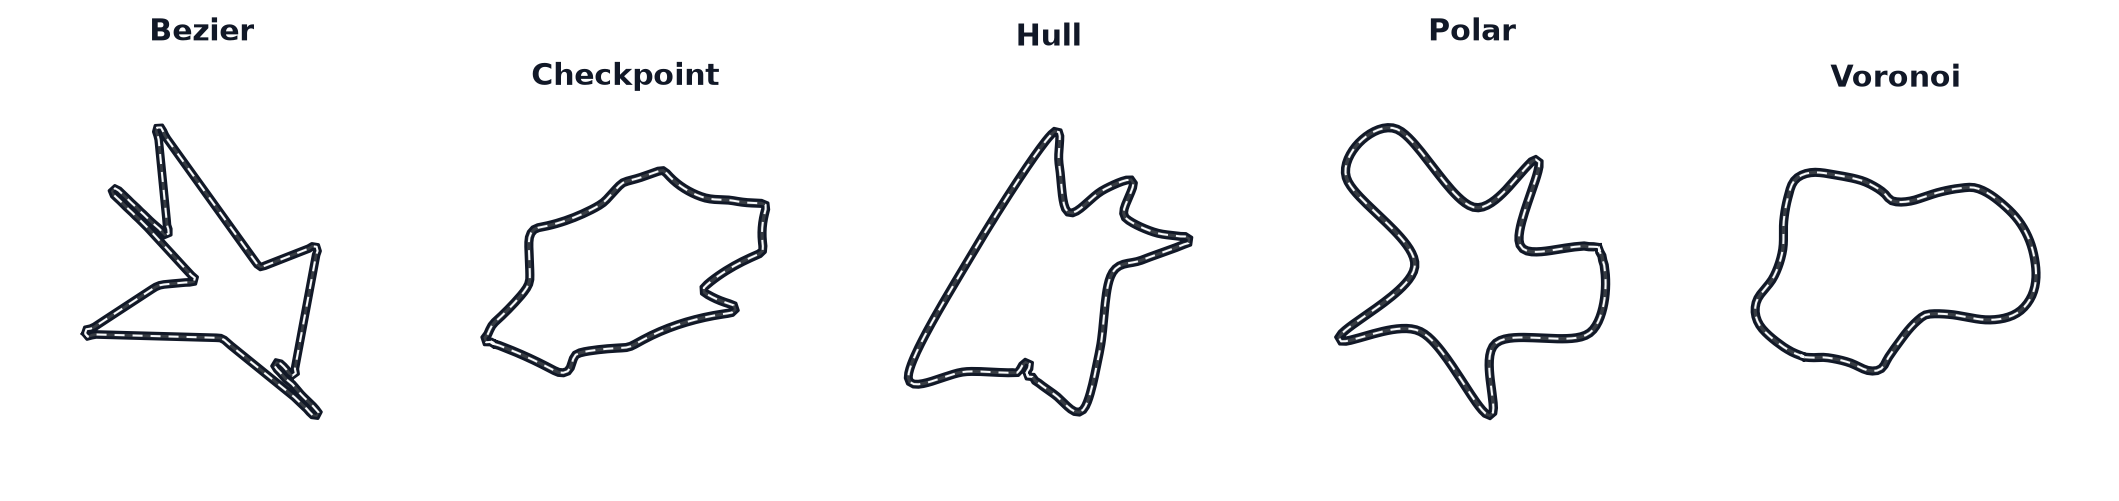
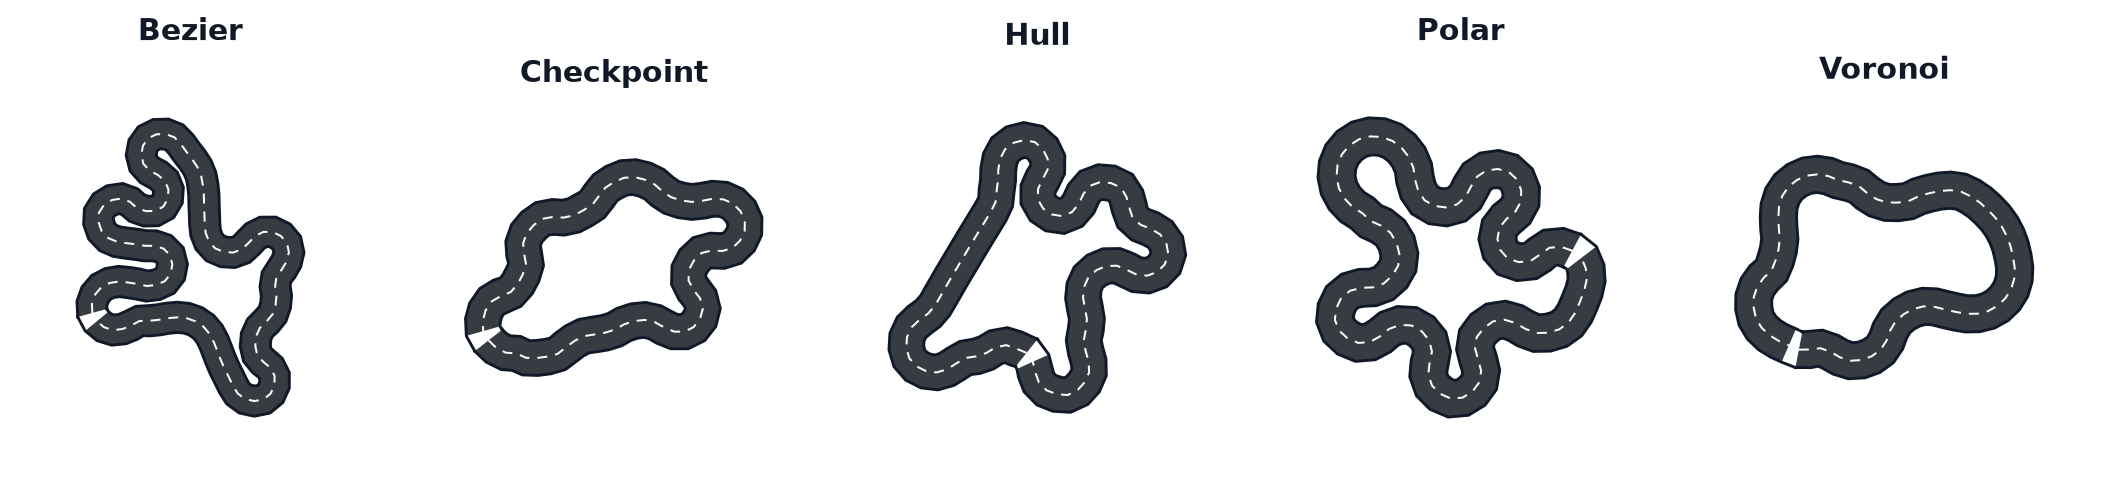
docs: render readme visuals with defaults

diff --git a/viz/render_readme_assets.py b/viz/render_readme_assets.py
@@ -1,7 +1,8 @@
 """Render deterministic PNG assets used by the README.
 
-The images are generated from the real TrackGen runtime pipeline with fixed seeds, then
-written under ``docs/assets`` so they can be committed and displayed by GitHub.
+The images are generated from the real TrackGen runtime pipeline with fixed seeds and
+default geometry parameters, then written under ``docs/assets`` so they can be committed
+and displayed by GitHub.
 
 Run from the repository root:
 
@@ -32,16 +33,7 @@ GENERATORS = [
 
 def _generate(name: str, seed: int, needed: int = 5):
     batch = 24
-    cfg = TrackGenConfig(
-        generator=name,
-        num_envs=batch,
-        device="cpu",
-        half_width=0.08,
-        scale=5.0,
-        spacing=0.12,
-        N_max=384,
-        relax_iters=80,
-    )
+    cfg = TrackGenConfig(generator=name, num_envs=batch, device="cpu")
     rng = PerEnvSeededRNG(seeds=seed, num_envs=batch, device="cpu")
     track = TrackGenerator(cfg, rng).generate()
     center = wp.to_torch(track.center).cpu().numpy().reshape(batch, cfg.N_max, 2)
@@ -68,16 +60,7 @@ def _generate(name: str, seed: int, needed: int = 5):
 
 def _generate_pipeline_sample(name: str = "bezier", seed: int = 100):
     batch = 24
-    cfg = TrackGenConfig(
-        generator=name,
-        num_envs=batch,
-        device="cpu",
-        half_width=0.08,
-        scale=5.0,
-        spacing=0.12,
-        N_max=384,
-        relax_iters=80,
-    )
+    cfg = TrackGenConfig(generator=name, num_envs=batch, device="cpu")
     rng = PerEnvSeededRNG(seeds=seed, num_envs=batch, device="cpu")
     generator = TrackGenerator(cfg, rng)
     track = generator.generate()